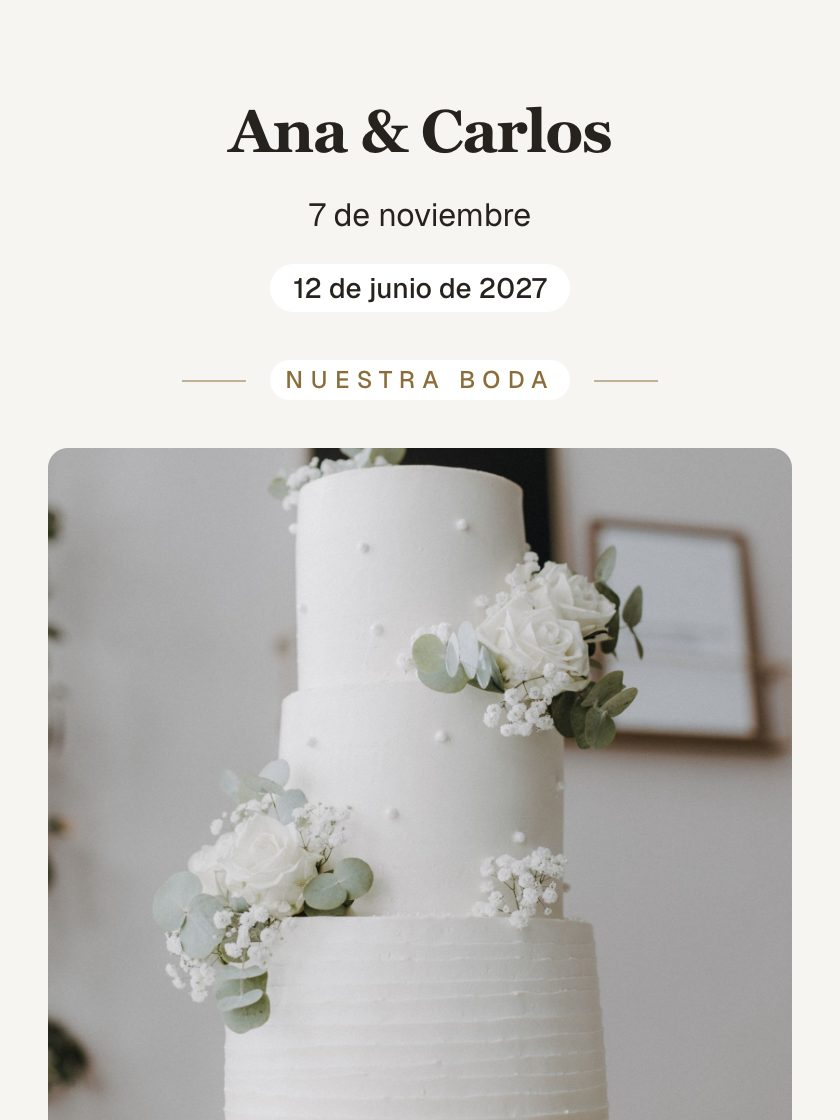
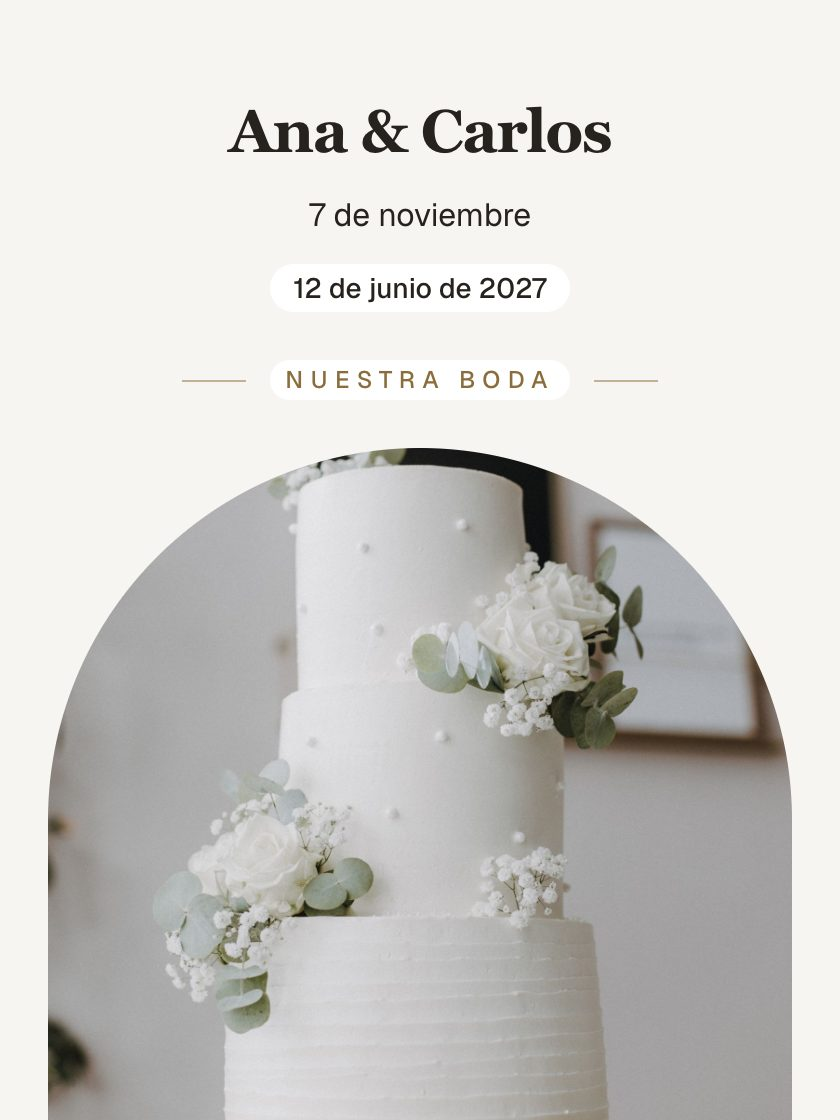
feat(portada): foto en arco (imageShape) y activada en las 6 plantillas con foto cuadrada (migracion 0069 sin aplicar en produccion)

Changed region(s): [[0.031, 0.375, 0.4333, 0.6875], [0.5571, 0.375, 0.9595, 0.6875]]

diff --git a/src/lib/previews/foto-en-arco.test.ts b/src/lib/previews/foto-en-arco.test.ts
@@ -1,0 +1,45 @@
+import { createElement } from "react";
+import { renderToStaticMarkup } from "react-dom/server";
+import { describe, expect, it } from "vitest";
+import { PublicInvitationView } from "@/components/public/public-invitation";
+import { parseConfig } from "@/lib/modules/types";
+import type { PublicInvitation } from "@/lib/invitations/public-types";
+
+const invitacion = (hero: Record<string, unknown>): PublicInvitation => ({
+  id: "inv-1",
+  title: "Boda",
+  slug: "boda",
+  event_type: "Boda",
+  event_date: "2027-06-12T18:00:00.000Z",
+  theme_config: null,
+  owner_name: "Ana",
+  owner_username: "ana",
+  plan_code: "free",
+  modules: [{ id: "h", module_type: "hero", sort_order: 0, is_visible: true, config: hero }],
+});
+
+const html = (hero: Record<string, unknown>) =>
+  renderToStaticMarkup(createElement(PublicInvitationView, { invitation: invitacion(hero) }));
+
+describe("foto en arco de la portada", () => {
+  it("el defecto es rectangular: ninguna invitación guardada se mueve", () => {
+    expect((parseConfig("hero", {}) as { imageShape: string }).imageShape).toBe("rect");
+    expect(html({ variant: "editorial", imageUrl: "/x.jpg" })).not.toContain("rounded-t-full");
+  });
+
+  it("con imageShape = arch, la foto contenida lleva la máscara de arco en editorial y en split", () => {
+    for (const variant of ["editorial", "split"]) {
+      const h = html({ variant, imageUrl: "/x.jpg", imageShape: "arch" });
+      expect(h, variant).toContain("rounded-t-full");
+      expect(h, variant).not.toContain("overflow-hidden rounded-lg");
+    }
+  });
+
+  it("un valor desconocido cae en el defecto en vez de romper la portada", () => {
+    expect(html({ variant: "editorial", imageUrl: "/x.jpg", imageShape: "estrella" })).not.toContain("rounded-t-full");
+  });
+
+  it("sin foto no se pinta ninguna figura", () => {
+    expect(html({ variant: "editorial", imageShape: "arch" })).not.toContain("rounded-t-full");
+  });
+});

diff --git a/src/components/modules/previews.tsx b/src/components/modules/previews.tsx
@@ -615,16 +615,18 @@ function HeroPreviewBase({
       )}
       {fotoContenida && conFoto && (
         <div
-          className={
+          className={cn(
             config.variant === "split"
               ? // `order-2` en móvil: el título va PRIMERO cuando la portada
                 // apila. Sin esto la foto ocupa 560 px a 420 de ancho con
                 // proporción 3/4 —exactamente el alto del recorte de la
                 // miniatura— y la plantilla se anunciaba en el catálogo con una
                 // foto y CERO texto. Medido, y visto en la hoja de contacto.
-                "relative order-2 w-full overflow-hidden rounded-lg @2xl/inv:order-1 @2xl/inv:w-1/2"
-              : "relative order-2 w-full max-w-md overflow-hidden rounded-lg"
-          }
+                "relative order-2 w-full overflow-hidden @2xl/inv:order-1 @2xl/inv:w-1/2"
+              : "relative order-2 w-full max-w-md overflow-hidden",
+            // Arco: máscara de las dos esquinas de arriba (`imageShape`); la de siempre, esquinas suaves.
+            config.imageShape === "arch" ? "rounded-t-full rounded-b-lg" : "rounded-lg",
+          )}
           style={{
             // `auto` = el valor de siempre por variante. Cualquier otro lo pone
             // la plantilla, para que la caja coincida con la fuente y no se

diff --git a/src/components/modules/config-editors.tsx b/src/components/modules/config-editors.tsx
@@ -230,6 +230,23 @@ function ComposicionDePortada({
         </p>
       ) : null}
 
+      {enFigura && imageUrl ? (
+        <div className="space-y-1.5">
+          <div className="flex items-center justify-between gap-3">
+            <Label htmlFor="foto-en-arco">Foto en arco</Label>
+            <Switch
+              id="foto-en-arco"
+              checked={config.imageShape === "arch"}
+              onCheckedChange={(v) => onChange({ imageShape: v ? "arch" : "rect" })}
+            />
+          </div>
+          <p className="text-xs text-muted-foreground">
+            El arco redondea las dos esquinas de arriba. Queda mejor con una foto cuadrada o vertical;
+            con una apaisada la cúpula sale ovalada.
+          </p>
+        </div>
+      ) : null}
+
       {/* El interruptor va SEPARADO del combo, no como una sexta opción: el
           diseño elegido se mantiene y esto sólo permite empujar los textos
           encima. Es el mismo control que llevan las 11 secciones.

diff --git a/src/lib/modules/types.ts b/src/lib/modules/types.ts
@@ -699,6 +699,14 @@ export const heroConfigSchema = z.object({
    */
   imageRatio: z.enum(["auto", ...MEDIA_RATIOS]).default("auto"),
   /**
+   * Forma de la foto contenida de `split` y `editorial`: rectángulo con esquinas suaves (la de
+   * siempre) o arco. El arco es una MÁSCARA, no un recorte de proporción: quita las dos esquinas
+   * de arriba y deja el encuadre como esté, así que solo conviene con fotos cuadradas o más altas
+   * que anchas (con una apaisada la cúpula sale elíptica). Defecto `rect`: ninguna invitación
+   * guardada se mueve.
+   */
+  imageShape: z.enum(["rect", "arch"]).default("rect"),
+  /**
    * Interruptor del movimiento libre. Va SEPARADO de `variant` a propósito:
    * el diseño elegido se mantiene y esto sólo permite empujar los textos
    * encima. Meterlo como una sexta variante habría obligado a elegir entre

diff --git a/src/lib/invitations/template-preview.ts b/src/lib/invitations/template-preview.ts
@@ -67,4 +67,4 @@ export const ESCALA_CAPTURA = 2;
  * optimizador y la del navegador, y evita tener que renombrar 50 archivos o
  * volver a escribir 50 URLs en la BD en cada regeneración.
  */
-export const REVISION_MINIATURAS = "202610270045";
+export const REVISION_MINIATURAS = "202610270114";

diff --git a/docs/auditoria-2026-10/18-validacion-de-diseno.md b/docs/auditoria-2026-10/18-validacion-de-diseno.md
@@ -139,3 +139,24 @@ Hechos en la rama `plan/90-dias`, sin fusionar. Datos en la migración `0068` (a
 **Pendiente de mirar:** `corporativo-junta-resultados` quedó con una sospecha de 9.2 % a 320 px en «Confirma tu asistencia» que apareció con la línea de fecha y que no se arregló.
 
 Se regeneraron las 70 miniaturas (`REVISION_MINIATURAS` = `202610270045`).
+
+## 11. Punto 6 del plan: marco arqueado (26 oct 2026)
+
+Hecho en la rama `plan/90-dias`, sin fusionar. La migración `0069` está aplicada en la base local, **no** en producción.
+
+**Qué se construyó.** Una opción nueva de la portada, `imageShape` (`rect` por defecto, o `arch`), que redondea las dos esquinas de arriba de la foto contenida (`split` y `editorial`). Es una máscara, no un cambio de proporción: el encuadre queda como esté. En el editor, un interruptor «Foto en arco» aparece cuando la portada tiene foto en figura; avisa que queda mejor con foto cuadrada o vertical. Con el valor por omisión ninguna invitación guardada se mueve (cuatro pruebas nuevas: defecto, `split` y `editorial`, valor desconocido, sin foto).
+
+**A cuántas plantillas se aplicó: 6, no ~30.** La estimación de ~30 del plan suponía poner una foto de una persona dentro del arco. Con las fotos que tenemos, solo 6 plantillas tienen foto cuadrada (`imageRatio` 1/1), que es donde la máscara solo quita esquinas y la cúpula sale circular: `bautizo-cera-blanca`, `boda-marco-nuestro`, `boda-papel-y-lino`, `comunion-cinta`, `revelacion-coral` y `xv-corona`. Las otras 9 con foto contenida son apaisadas (3/2 o 4/3): con ellas la cúpula saldría ovalada y la proporción ya se había calibrado para no recortar la foto, así que no se tocaron.
+
+**Medido en esas 6**, a 320, 375 y 1200 px, con la muestra y con nombres de 60 caracteres:
+- adorno bajo el texto: **0** sospechas en las 6;
+- choque de texto (sin contar la cuenta atrás): **0**;
+- contraste: ninguna bajo AA en las tres superficies.
+A simple vista, el encuadre aguanta (el pastel, los anillos, el cáliz, los globos y la tiara no pierden su sujeto). Se regeneraron las 6 miniaturas (`REVISION_MINIATURAS` = `202610270114`).
+
+**Lo que no se hizo, y por qué.**
+- **Foto de una persona en el arco** (lo que hace la competencia): no tenemos fotos de personas con permiso. `PROCEDENCIA.md` descarta caras identificables por licencia. Si quieres este efecto hacen falta fotos tuyas o con consentimiento por escrito, o imágenes generadas sin caras reconocibles.
+- **Portada fotográfica a sangre en `boda-destino`, `boda-en-la-playa` y las demás:** requiere fotos nuevas (descargas con tu autorización y una revisión de contraste con velo). La variante `centered` con foto a sangre ya existe y funciona.
+- **Aplicar el arco a las plantillas apaisadas:** exigiría recortarles el 25 a 50 % de la foto, que es justo lo que las pruebas de encuadre de las fases anteriores evitaron.
+
+**Decisión tuya:** (a) dejarlo con las 6; (b) pasarme fotos verticales o cuadradas para sumar más plantillas; (c) un arco con un marco fino alrededor de la foto, para que la cúpula luzca más. Mi recomendación: (a) ahora, y (b) cuando tengas las fotos.
